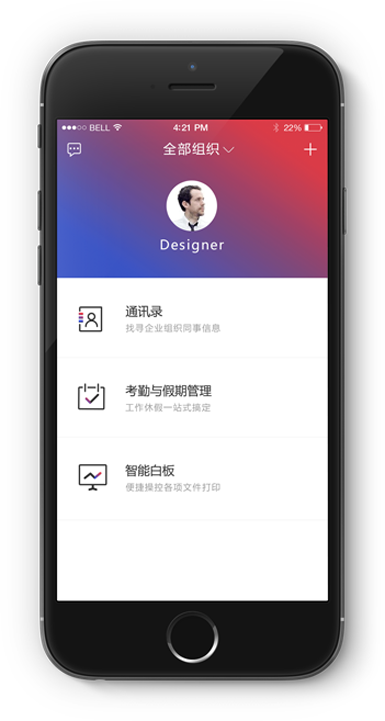
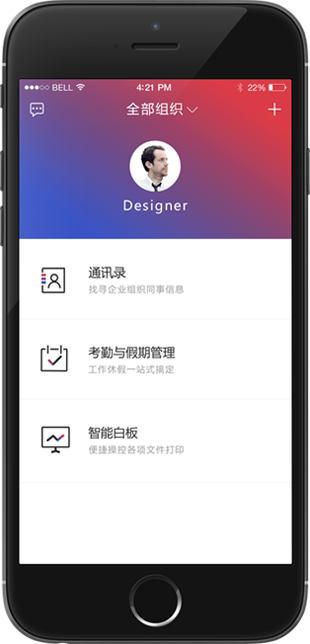
update index for pc web

diff --git a/static/www/home/css/style.css b/static/www/home/css/style.css
@@ -476,7 +476,7 @@ a img {
 .product-inner .product-info .info-title{}
 .product-inner .product-info .info-title .title-icon{width: 60px; height: 60px;background-repeat: no-repeat; background-position: center; background-size: 100%; margin: 0 auto;}
 .product-inner .product-info .info-title .title-icon-1{width: 50px; height: 54px;background-image: url('http://t.static.delicloud.com/www/home/images/index/app-img-1.png?v=20180313');margin-right: 20px;margin-top: 3px;}
-.product-inner .product-info .info-title .title-icon-2{width: 43px; height: 44px;background-image: url('http://t.static.delicloud.com/www/home/images/index/app-img-2.png?v=20180313');margin-left: 20px;margin-top: 8px;}
+.product-inner .product-info .info-title .title-icon-2{width: 43px; height: 44px;background-image: url('http://t.static.delicloud.com/www/home/images/index/app-img-8.png?v=20180313');margin-left: 20px;margin-top: 8px;}
 .product-inner .product-info .info-title .title-icon-3{width: 50px; height: 50px;background-image: url('http://t.static.delicloud.com/www/home/images/index/app-img-3.png?v=20180313');margin-right: 20px;margin-top: 5px;}
 .product-inner .product-info .info-title .title-icon-4{width: 52px; height: 51px;background-image: url('http://t.static.delicloud.com/www/home/images/index/app-img-4.png?v=20180313');margin-left: 20px;margin-top: 3px;}
 .product-inner .product-info .info-title .title-text{background-repeat: no-repeat;background-position: center;background-size: 100%;}

diff --git a/www/about.html b/www/about.html
@@ -16,7 +16,7 @@
 			<h1 class="logo-box">
 				<a href="/" class="logo" title="得力e+"></a>
 			</h1>
-			<a href="javascript:;" class="nav-toggle">立刻下载</span>
+			<a href="javascript:;" class="nav-toggle">立刻下载</a>
 			<ul>
 				<li><a href="/">首页</a></li>
 				<li><a href="/product.html">产品</a></li>

diff --git a/www/oa/dev/site/index/index.less b/www/oa/dev/site/index/index.less
@@ -23,7 +23,7 @@ body {
 	margin: 0;
 	height: 100%;
 	overflow: auto;
-	background-color: #f6f6f6;
+	background-color: #eeeff2;
 	color: #333;
 }
 

diff --git a/www/oa/dev/page/home/home.less b/www/oa/dev/page/home/home.less
@@ -1,7 +1,7 @@
 @import '../../config.less';
 body.home{
     #footer{
-        display:block;
+        display:none;
     }
 }
 #home {
